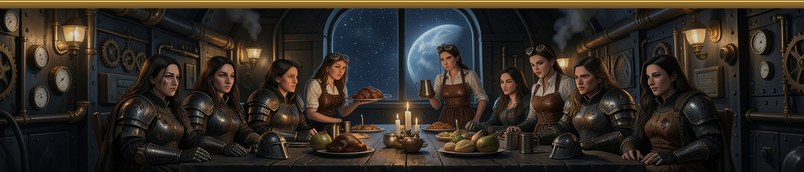
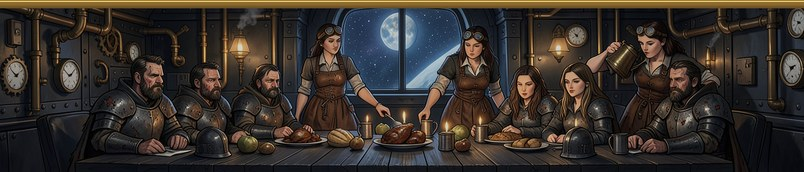
Station: Round 5 hall as the November trim (new strip with overlay 0.2, six candle flames and two lamps from the Round 5 light manifest, three server sprites re-encoded to 86 to 100 KB each, the three servers scheduled so none ever plays with another; the last sprite frame shows before it hides)

diff --git a/sw.js b/sw.js
@@ -1,7 +1,7 @@
 // Static shell only: no authenticated API, cross-origin or user-upload caching.
 const VERSION = 'jarvis-cas-v99';
 const BASE = new URL('./', self.location.href);
-const PATHS = ['./', 'index.html', 'manifest.json', 'offline.html', 'js/app.js', 'js/station-work-view.js', 'js/cas-animation.js', 'js/cas-chat.js', 'js/cas-keys.js', 'js/cas-projects.js', 'js/cas-missions.js', 'js/cas-scenes.js', 'js/cas-desk.js', 'js/cas-desk-logic.js', 'js/cas-places.js', 'js/cas-blueprints.js', 'js/cas-progress.js', 'js/cas-rankup.js', 'assets/themes/forge-and-brass/ranks/rank01_founder.jpg', 'assets/themes/forge-and-brass/ranks/rank02_amateur.jpg', 'assets/themes/forge-and-brass/ranks/rank03_beginner.jpg', 'assets/themes/forge-and-brass/ranks/rank04_technician.jpg', 'assets/themes/forge-and-brass/ranks/rank05_supervisor.jpg', 'assets/themes/forge-and-brass/ranks/rank06_manager.jpg', 'assets/themes/forge-and-brass/ranks/rank07_senior-manager.jpg', 'assets/themes/forge-and-brass/ranks/rank08_general-manager.jpg', 'assets/themes/forge-and-brass/ranks/rank09_director.jpg', 'assets/themes/forge-and-brass/ranks/rank10_vice-president.jpg', 'assets/themes/forge-and-brass/ranks/rank11_executive.jpg', 'assets/themes/forge-and-brass/ranks/rank12_chair.jpg', 'assets/themes/forge-and-brass/ranks/rankup_technician.jpg', 'js/cas-themes.js', 'js/cas-stuck.js', 'js/cas-trim.js', 'assets/themes/forge-and-brass/trim/november/black-iron-hall.jpg', 'assets/themes/forge-and-brass/trim/december/frost-on-iron.jpg', 'assets/theme/sleigh.png', 'assets/themes/forge-and-brass/trim/november/serve-plate-row.webp', 'assets/themes/forge-and-brass/trim/november/pour-drink-row.webp', 'assets/themes/forge-and-brass/trim/november/glow-flame.png', 'assets/themes/forge-and-brass/trim/november/glow-lamp.png', 'js/cas-reveal.js', 'js/cas-reveal-logic.js', 'js/cas-orders.js', 'js/cas-orders-logic.js', 'js/cas-screen.js', 'js/map3d.js', 'js/map3d-status.js', 'js/cas-card.js', 'js/cas-threads.js', 'js/cas-images.js', 'js/renderer.js', 'js/fortress.js', 'js/rooms.js', 'js/room-views.js', 'js/cas-identity.js', 'js/pwa.js', 'css/station.css', 'css/cas-chat.css', 'css/cas-identity.css', 'css/storyboard.css', 'css/features.css', 'css/cas-threads.css', 'css/cas-missions.css', 'css/cas-desk.css', 'css/cas-orders.css', 'css/station-theme.css', 'assets/theme/nav.jpg', 'assets/theme/sigil.svg', 'assets/theme/bar.jpg', 'assets/theme/deck.jpg', 'assets/theme/tile.jpg', 'assets/theme/parchment.jpg', 'assets/theme/seal.svg', 'icons/icon-192.png', 'icons/icon-512.png', 'icons/apple-touch-icon.png', 'assets/cas/current.png', 'assets/brass-frame.svg', 'assets/cas/console.jpg', 'assets/cas/work-animation.jpg', 'assets/cas/face.jpg', 'assets/cas/scene-current.jpg', 'assets/cas/scene-map.jpg', 'assets/cas/scene-standing.jpg', 'assets/cas/scene-console.jpg', 'assets/cas/map-scene.png', 'assets/fortress-map.png', 'assets/cas/identity.json'];
+const PATHS = ['./', 'index.html', 'manifest.json', 'offline.html', 'js/app.js', 'js/station-work-view.js', 'js/cas-animation.js', 'js/cas-chat.js', 'js/cas-keys.js', 'js/cas-projects.js', 'js/cas-missions.js', 'js/cas-scenes.js', 'js/cas-desk.js', 'js/cas-desk-logic.js', 'js/cas-places.js', 'js/cas-blueprints.js', 'js/cas-progress.js', 'js/cas-rankup.js', 'assets/themes/forge-and-brass/ranks/rank01_founder.jpg', 'assets/themes/forge-and-brass/ranks/rank02_amateur.jpg', 'assets/themes/forge-and-brass/ranks/rank03_beginner.jpg', 'assets/themes/forge-and-brass/ranks/rank04_technician.jpg', 'assets/themes/forge-and-brass/ranks/rank05_supervisor.jpg', 'assets/themes/forge-and-brass/ranks/rank06_manager.jpg', 'assets/themes/forge-and-brass/ranks/rank07_senior-manager.jpg', 'assets/themes/forge-and-brass/ranks/rank08_general-manager.jpg', 'assets/themes/forge-and-brass/ranks/rank09_director.jpg', 'assets/themes/forge-and-brass/ranks/rank10_vice-president.jpg', 'assets/themes/forge-and-brass/ranks/rank11_executive.jpg', 'assets/themes/forge-and-brass/ranks/rank12_chair.jpg', 'assets/themes/forge-and-brass/ranks/rankup_technician.jpg', 'js/cas-themes.js', 'js/cas-stuck.js', 'js/cas-trim.js', 'assets/themes/forge-and-brass/trim/november/black-iron-hall.jpg', 'assets/themes/forge-and-brass/trim/december/frost-on-iron.jpg', 'assets/theme/sleigh.png', 'assets/themes/forge-and-brass/trim/november/serve-roast-row.webp', 'assets/themes/forge-and-brass/trim/november/set-plate-row.webp', 'assets/themes/forge-and-brass/trim/november/pour-drink-row.webp', 'assets/themes/forge-and-brass/trim/november/glow-flame.png', 'assets/themes/forge-and-brass/trim/november/glow-lamp.png', 'js/cas-reveal.js', 'js/cas-reveal-logic.js', 'js/cas-orders.js', 'js/cas-orders-logic.js', 'js/cas-screen.js', 'js/map3d.js', 'js/map3d-status.js', 'js/cas-card.js', 'js/cas-threads.js', 'js/cas-images.js', 'js/renderer.js', 'js/fortress.js', 'js/rooms.js', 'js/room-views.js', 'js/cas-identity.js', 'js/pwa.js', 'css/station.css', 'css/cas-chat.css', 'css/cas-identity.css', 'css/storyboard.css', 'css/features.css', 'css/cas-threads.css', 'css/cas-missions.css', 'css/cas-desk.css', 'css/cas-orders.css', 'css/station-theme.css', 'assets/theme/nav.jpg', 'assets/theme/sigil.svg', 'assets/theme/bar.jpg', 'assets/theme/deck.jpg', 'assets/theme/tile.jpg', 'assets/theme/parchment.jpg', 'assets/theme/seal.svg', 'icons/icon-192.png', 'icons/icon-512.png', 'icons/apple-touch-icon.png', 'assets/cas/current.png', 'assets/brass-frame.svg', 'assets/cas/console.jpg', 'assets/cas/work-animation.jpg', 'assets/cas/face.jpg', 'assets/cas/scene-current.jpg', 'assets/cas/scene-map.jpg', 'assets/cas/scene-standing.jpg', 'assets/cas/scene-console.jpg', 'assets/cas/map-scene.png', 'assets/fortress-map.png', 'assets/cas/identity.json'];
 const SHELL = PATHS.map(path => new URL(path, BASE).href);
 self.addEventListener('install', event => {
   event.waitUntil(caches.open(VERSION).then(cache => cache.addAll(SHELL)).then(() => self.skipWaiting()));

diff --git a/js/cas-trim.js b/js/cas-trim.js
@@ -13,17 +13,17 @@ const DIR = 'assets/themes/forge-and-brass/trim/';
  */
 export const TRIMS = {
   11: {
-    file: DIR + 'november/black-iron-hall.jpg', dim: 0.15,
+    file: DIR + 'november/black-iron-hall.jpg', dim: 0.2,
     fx: {
       lights: [
-        { kind: 'lamp', x: 3.87, y: -3.47, w: 10.42, h: 48.61, t: 9, lo: 0.7, hi: 1 },
-        { kind: 'lamp', x: 27.08, y: 10.42, w: 8.93, h: 41.67, t: 12, lo: 0.7, hi: 1 },
-        { kind: 'lamp', x: 65.48, y: 15.62, w: 8.93, h: 41.67, t: 15, lo: 0.7, hi: 1 },
-        { kind: 'lamp', x: 81.47, y: -2.78, w: 10.42, h: 48.61, t: 11, lo: 0.7, hi: 1 },
-        { kind: 'flame', x: 47.54, y: 49.65, w: 6.25, h: 29.17, t: 2.2, lo: 0.35, hi: 1 },
-        { kind: 'flame', x: 47.4, y: 59.72, w: 4.17, h: 19.44, t: 1.6, lo: 0.35, hi: 1 },
-        { kind: 'flame', x: 49.63, y: 61.11, w: 4.17, h: 19.44, t: 2.9, lo: 0.35, hi: 1 },
-        { kind: 'flame', x: 33.63, y: 59.38, w: 3.57, h: 16.67, t: 2.4, lo: 0.35, hi: 1 },
+        { kind: 'lamp', x: 25.37, y: 6.94, w: 8.93, h: 41.67, t: 9, lo: 0.7, hi: 1 },
+        { kind: 'lamp', x: 65.4, y: 10.07, w: 8.18, h: 38.19, t: 13, lo: 0.7, hi: 1 },
+        { kind: 'flame', x: 43.68, y: 59.72, w: 3.87, h: 18.06, t: 2.2, lo: 0.35, hi: 1 },
+        { kind: 'flame', x: 47.99, y: 57.29, w: 4.46, h: 20.83, t: 2.9, lo: 0.35, hi: 1 },
+        { kind: 'flame', x: 50.67, y: 63.54, w: 4.46, h: 20.83, t: 1.7, lo: 0.35, hi: 1 },
+        { kind: 'flame', x: 53.27, y: 62.85, w: 4.46, h: 20.83, t: 3.4, lo: 0.35, hi: 1 },
+        { kind: 'flame', x: 57.59, y: 61.46, w: 4.17, h: 19.44, t: 2.5, lo: 0.35, hi: 1 },
+        { kind: 'flame', x: 69.64, y: 62.15, w: 3.87, h: 18.06, t: 1.9, lo: 0.35, hi: 1 },
       ],
       shadows: [
         { x: 0, y: 5, w: 20, h: 95, t: 9, d: 0 },
@@ -31,8 +31,9 @@ export const TRIMS = {
         { x: 38, y: 5, w: 24, h: 50, t: 7, d: -2 },
       ],
       sprites: [
-        { file: DIR + 'november/serve-plate-row.webp', x: 40.18, y: 31.94, w: 10.42, h: 43.06, frames: 24, every: 20, delay: 6 },
-        { file: DIR + 'november/pour-drink-row.webp', x: 49.7, y: 38.89, w: 7.74, h: 45.83, frames: 24, every: 20, delay: 15 },
+        { file: DIR + 'november/serve-roast-row.webp', x: 41.67, y: 34.72, w: 9.67, h: 52.08, frames: 24, every: 20, delay: 4 },
+        { file: DIR + 'november/set-plate-row.webp', x: 48.36, y: 41.67, w: 10.42, h: 55.56, frames: 24, every: 20, delay: 11 },
+        { file: DIR + 'november/pour-drink-row.webp', x: 73.29, y: 17.36, w: 7.81, h: 74.65, frames: 24, every: 20, delay: 16 },
       ],
     },
   },

diff --git a/css/station-theme.css b/css/station-theme.css
@@ -156,7 +156,7 @@ html.ios-short .fx-sprite::after { background: linear-gradient(#3a281200 52%, #3
 .fx-sheet { width: var(--wide); height: 100%; background: var(--sheet) 0 0 / 100% 100% no-repeat; will-change: transform;
   animation: trim-sprite-play var(--every) steps(var(--s), end) var(--delay) infinite; }
 @keyframes trim-sprite-show { 0% { opacity: 1; } 10% { opacity: 1; } 10.01% { opacity: 0; } 100% { opacity: 0; } }
-@keyframes trim-sprite-play { 0% { transform: translateX(0); } 10% { transform: translateX(var(--end)); } 100% { transform: translateX(var(--end)); } }
+@keyframes trim-sprite-play { 0% { transform: translateX(0); } 9.5% { transform: translateX(var(--end)); } 100% { transform: translateX(var(--end)); } }
 
 /* December: the sleigh flies three different paths in turn (a high swoop, a dive and climb, a long high arc), about 4 seconds each, one every 15 seconds.
    Three nested parts so each eases on its own: across the bar (--sleigh), up and down with a tilt (--path), and a small bob. */
